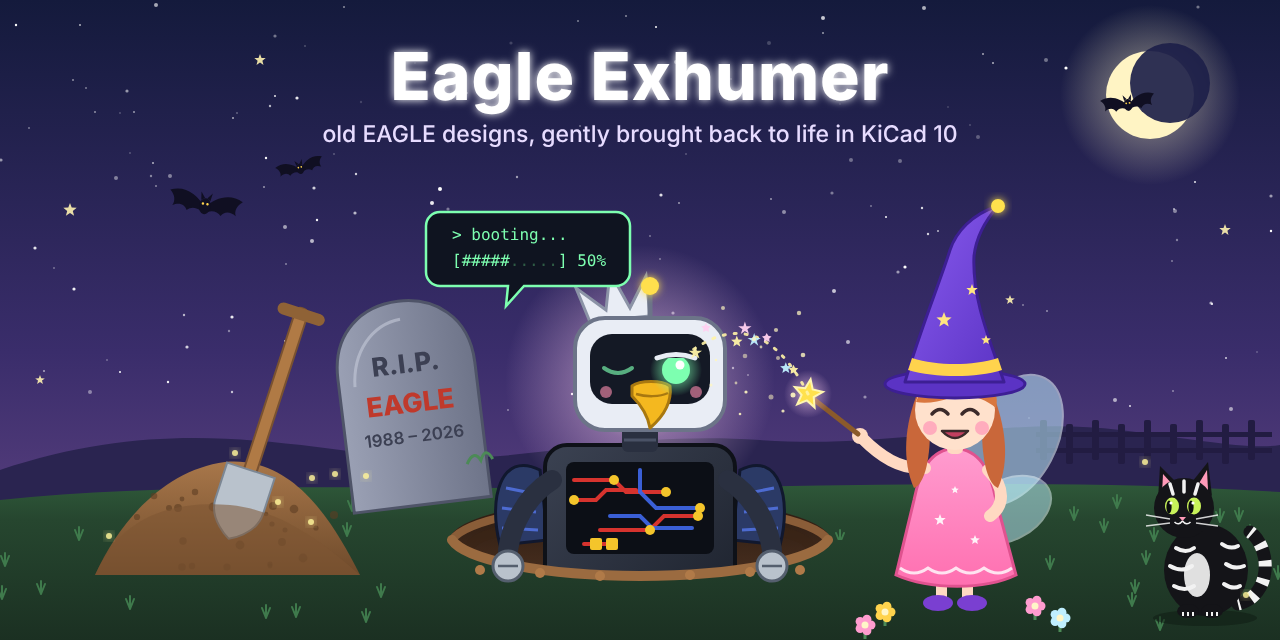
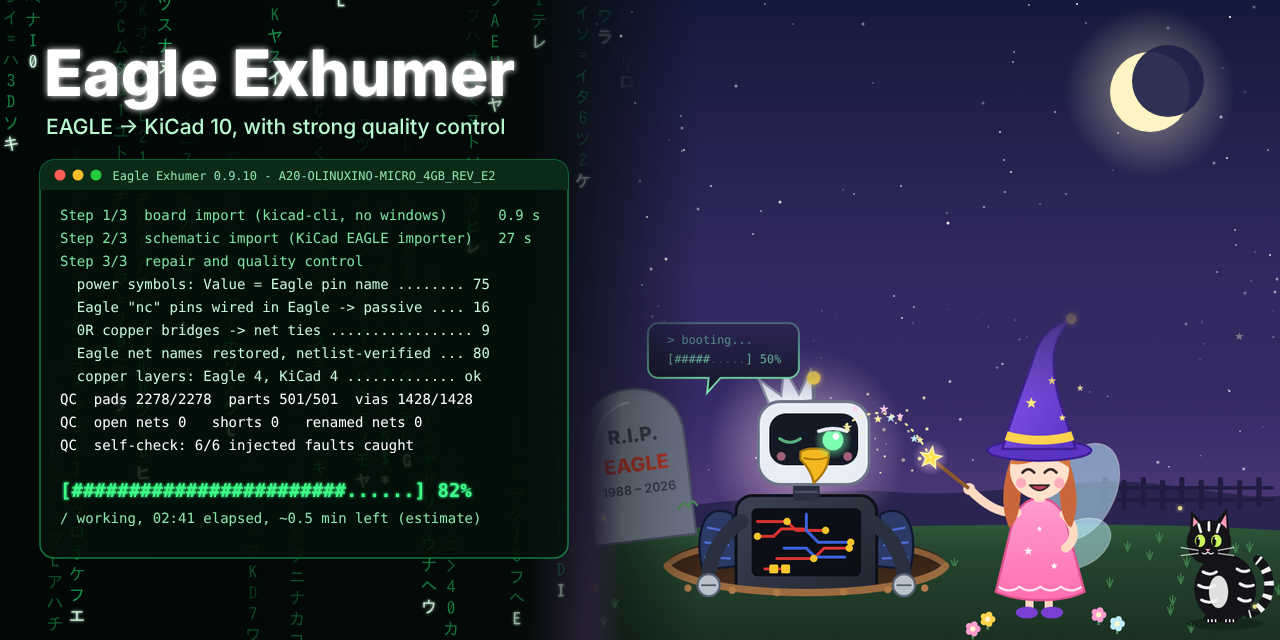
Eagle Exhumer: progress-output image

diff --git a/profile/README.md b/profile/README.md
@@ -1,4 +1,4 @@
-## Fast lane RF troubleshooting
+## Fast lane RF troubleshooting
 
 We identify issues, improve functionality and enhance performance at RF, so that you can fully focus on perfecting application-level features. **[z2labs.io](https://www.z2labs.io)**
 
@@ -40,7 +40,7 @@ We identify issues, improve functionality and enhance performance at RF, so that
 
 ### PCB tools
 
-<a href="https://github.com/z2labs/eagle-exhumer"><img src="img/eagle-exhumer.png" width="640" alt="Eagle Exhumer: a friendly fairy wakes a little EAGLE robot in its grave"></a>
+<a href="https://github.com/z2labs/eagle-exhumer"><img src="img/eagle-exhumer.png" width="640" alt="Eagle Exhumer: the plugin's progress output - import, repairs and quality control - next to the EAGLE robot woken from its grave"></a>
 
 **[Eagle Exhumer](https://github.com/z2labs/eagle-exhumer)**: a KiCad 10 plugin that brings old EAGLE designs (`.sch` / `.brd`) into KiCad. It runs KiCad's own EAGLE importer, repairs 15 defects that importer leaves on real boards (split power nets, lost net names, shorts from package copper, missing milling, outlines inside packages, wrong copper layer count, and more), then checks the result against the original EAGLE files with a strong quality control: a strict PASS or FAIL, with a report and 3D renders. Tested on 18 real boards, open source (GPL-3.0). One-click import on Windows, fix + check on every platform.
 
